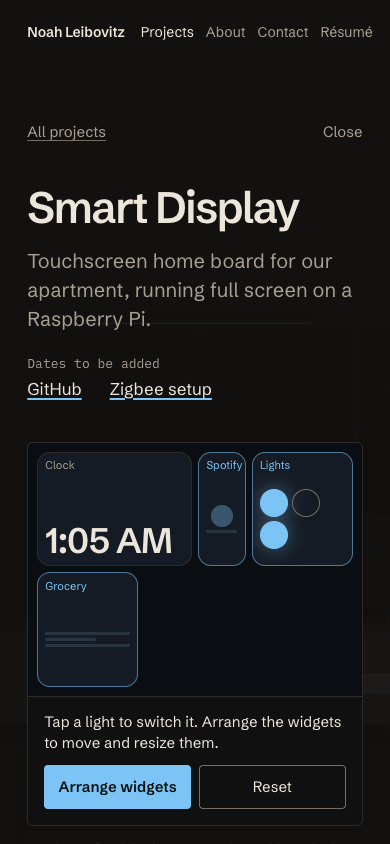
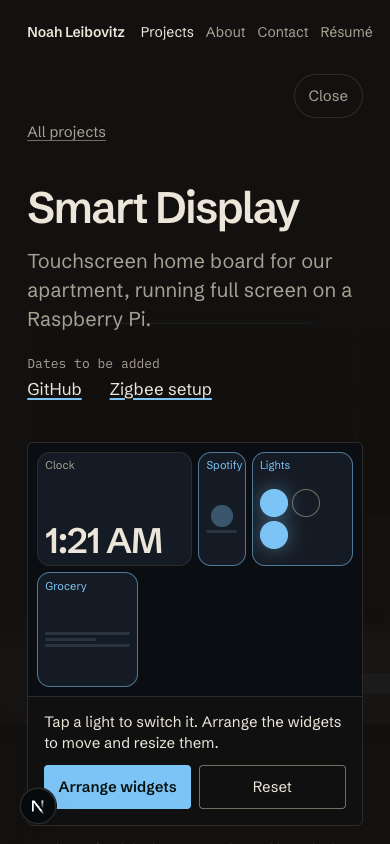
Pin Close to the top-right corner and make Esc work on key-up too
Close sat at the end of the text column, which is the middle of a wide
window. It is now a pill fixed under the header, in line with the nav.
Esc closes the page on key-down or key-up, because an embedded browser
pane can keep the key-down for itself.

Also: feature checks load from scripts/checks/, feature notes live in
docs/features/, and scripts/shot.mjs takes a screenshot of one route.

Changed region(s): [[0.1538, 0.6161, 0.4615, 0.6777], [0.8, 0.0924, 0.9231, 0.1848], [0.0615, 0.9242, 0.1538, 0.9858]]

diff --git a/src/components/RouteSync.tsx b/src/components/RouteSync.tsx
@@ -30,13 +30,23 @@ export default function RouteSync() {
     return () => query.removeEventListener("change", update);
   }, []);
 
+  // Esc closes the open page. Some hosts (an embedded browser pane, for one)
+  // keep the key-down for themselves and pass on only the key-up, so either
+  // one closes the page; `closing` stops the pair from counting twice.
   useEffect(() => {
     if (pathname === "/") return;
+    let closing = false;
     const onKey = (event: KeyboardEvent) => {
-      if (event.key === "Escape" && !event.defaultPrevented) router.push("/");
+      if (event.key !== "Escape" || event.defaultPrevented || closing) return;
+      closing = true;
+      router.push("/");
     };
-    window.addEventListener("keydown", onKey);
-    return () => window.removeEventListener("keydown", onKey);
+    document.addEventListener("keydown", onKey);
+    document.addEventListener("keyup", onKey);
+    return () => {
+      document.removeEventListener("keydown", onKey);
+      document.removeEventListener("keyup", onKey);
+    };
   }, [pathname, router]);
 
   return null;

diff --git a/src/app/globals.css b/src/app/globals.css
@@ -327,12 +327,33 @@ html[data-webgl] body:has(main.home) .site-footer {
   font-size: 0.9375rem;
 }
 
+/* Close sits in the window's top-right corner, under the header, and stays
+   there while the page scrolls. */
 .page-close {
+  position: fixed;
+  top: calc(var(--header-height) + 0.6rem);
+  right: var(--gutter);
+  z-index: 9;
+  display: inline-flex;
+  align-items: center;
+  min-height: 2.25rem;
+  padding: 0 0.85rem;
+  border: 1px solid var(--rule);
+  border-radius: 999px;
+  background: var(--wall);
+  color: var(--dim);
   text-decoration: none;
 }
 
 .page-close:hover {
+  border-color: var(--faint);
   color: var(--paper);
+}
+
+@media (hover: none) {
+  .page-close {
+    min-height: 2.75rem;
+  }
 }
 
 kbd {

diff --git a/CLAUDE.md b/CLAUDE.md
@@ -154,6 +154,9 @@ assets-src/      keyboard.glb, textures/                — git-ignored
 - 2026-11-11 — **Jupiterp's reach** (Noah: "used by a significant amount of people each semester", "most of the School uses it"). The page says "a large share of Maryland's students" in the summary, the first paragraph and a "Who it reaches" part. No number is given because none is published (README, repository); it is Noah's own account, marked with a TODO to replace with a figure from the maintainers.
 - 2026-11-11 — **Argus's miniature now shows the FlowSavvy hand-off** (Noah's request), replacing the queue. Left: the deadlines Argus collected. Right: a week in FlowSavvy with classes on it and each deadline's work fitted into the first free time before it is due (soonest deadline first). One button steps through: a new assignment is posted, a post moves the midterm, a meeting is added, start over; the blocks glide to their new times. It is a schematic of the idea, not FlowSavvy's real rules or screens, and the caption says so. The story gained a "From deadline to calendar" part; that description is a draft for Noah to confirm.
 
+- 2026-11-11 — **Features on their own branches** (Noah: "put each feature on a separate branch so I can keep and remove things"). Each feature branches from `fix/page-close`, keeps its notes in `docs/features/<name>.md`, its browser checks in `scripts/checks/<name>.mjs` (run by `npm run flows`), and its styles in its own CSS file, so the branches merge without touching the same lines. Read `docs/features/` for what each one decided.
+- 2026-11-11 — **Close and Esc.** Close is a pill fixed in the window's top-right corner under the header (it used to sit at the end of the text column, which is mid-window on a wide screen). Esc now closes on key-down or key-up, because an embedded browser pane can keep the key-down for itself.
+
 ## Open questions for Noah
 
 Every story is a draft for Noah to read. Aegis Orbit: role wording; teammates and who built what; any result at Technica; whether the README's figures belong; which parts of the sandbox HUD were his; OK to use the two screenshots. Argus: OK to use the two demo-data screenshots; order of the steps; whether the FlowSavvy hand-off is described correctly. Jupiterp: a usage figure, if the maintainers have one. Smart Display: whether the tap-to-light chain is right for the board; whether to name the roommates. Shell: whether each replayed output matches what the shell prints. MID: what it does; whether to link its public repository.

diff --git a/docs/features/README.md b/docs/features/README.md
@@ -1,0 +1,9 @@
+# Features on their own branches
+
+Each file here records one feature: what it is, the decisions made, and how to keep or drop it.
+
+| Branch | Notes |
+|---|---|
+| `fix/page-close` | The base for the others: Close pinned to the top-right corner, Esc on key-up as well as key-down. Recorded in `CLAUDE.md`. |
+
+To keep a feature, merge its branch into `main`. To drop it, delete the branch. Each feature also adds one file to `scripts/checks/`, which `npm run flows` runs.
